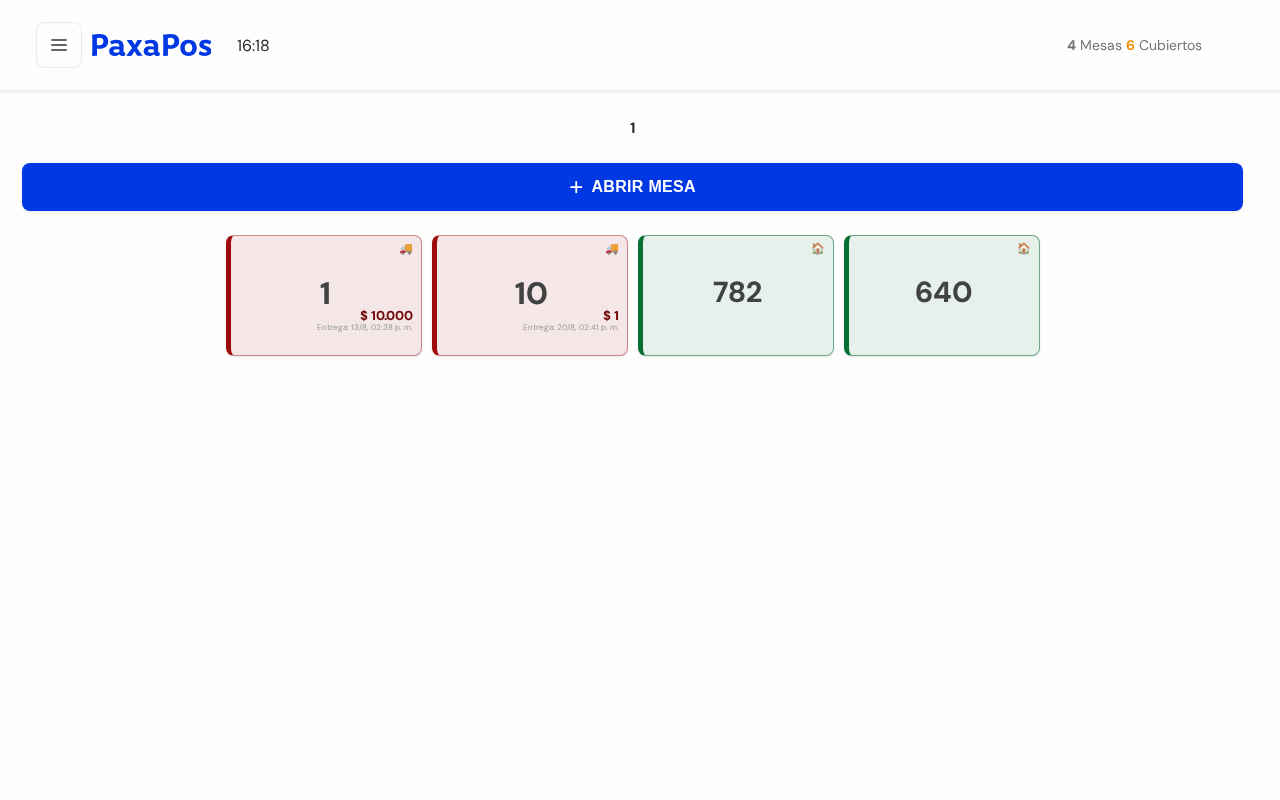
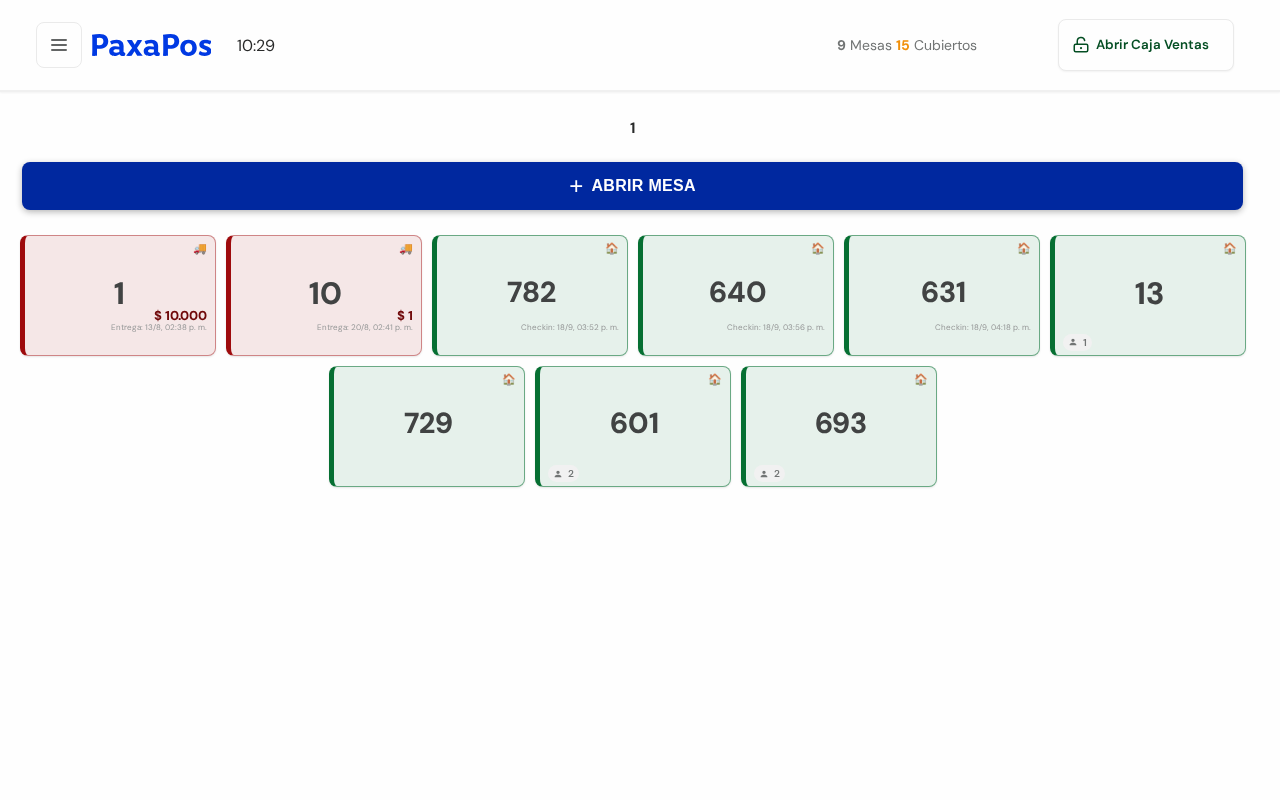
docs(manual): capturas por botón en 21 Cómo Usar el Salón de Ventas (Adición)
Capturas generadas contra dev2 (tenant prueba) con la receta 21: apertura
de caja, abrir mesa, catálogo (categoría + producto), comandar, opciones,
cerrar, remito, reabrir y cobro en efectivo (sin confirmar el cobro).
Se recapturan 01, 20, 23 y 25 porque la pantalla cambió.

Refs #144

diff --git a/src/routes/user-guide/Manual-Usuario/20-Ventas/21-Salon-de-Ventas.md b/src/routes/user-guide/Manual-Usuario/20-Ventas/21-Salon-de-Ventas.md
@@ -95,11 +95,11 @@ Para que el mozo entre al sistema con un código numérico, creale un **usuario 
 
 <div id="paso-1-entra-al-salon-de-ventas"></div>
 
-<!-- FOTO: 21-00a-menu-grupo-ventas — Grupo Ventas del menú lateral · recorte · #globalSidebar .sidebar-module[data-module="ventas"] .sidebar-module-header -->
+![Grupo Ventas del menú lateral](images/manual/20-ventas/21-00a-menu-grupo-ventas.png)
 
 1. En el menú de la izquierda, tocá **Ventas**. Se despliegan sus opciones.
 
-<!-- FOTO: 21-00b-menu-opcion-adicionar — Opción Salón de Ventas dentro del grupo Ventas · recorte · #globalSidebar a[href*="aditions/aditions/adicionar"] (con el grupo Ventas desplegado) -->
+![Opción Salón de Ventas dentro del grupo Ventas](images/manual/20-ventas/21-00b-menu-opcion-adicionar.png)
 
 2. Tocá **Salón de Ventas**.
 3. Vas a ver las mesas abiertas, agrupadas por mozo.
@@ -119,26 +119,26 @@ En esta pantalla vas a ver:
 
 Para cobrar en efectivo necesitás la caja abierta. Si está cerrada, arriba aparece el botón **Abrir Caja**.
 
-<!-- FOTO: 21-205-donde-esta-boton-abrir-caja — Encabezado del Salón de Ventas con el botón Abrir Caja marcado en rojo · pantalla con recuadro rojo · #btn-cashregister (visible solo con la caja cerrada) -->
+![Encabezado del Salón de Ventas con el botón Abrir Caja marcado en rojo](images/manual/20-ventas/21-205-donde-esta-boton-abrir-caja.png)
 
-<!-- FOTO: 21-206-boton-abrir-caja — Botón Abrir Caja · recorte · #btn-cashregister -->
+![Botón Abrir Caja](images/manual/20-ventas/21-206-boton-abrir-caja.png)
 
 1. Tocá **Abrir Caja**. Está arriba, en el encabezado del salón.
 2. Si tenés más de una caja, elegí cuál abrir y tocá **Continuar**.
 3. Se abre la ventana **Iniciar Caja**.
 
-<!-- FOTO: 21-207-dialogo-iniciar-caja — Ventana Iniciar Caja con la lista de billetes · pantalla completa · ventana SweetAlert "Iniciar Caja" (.swal-billete-input) con 2 billetes cargados -->
+![Ventana Iniciar Caja con la lista de billetes](images/manual/20-ventas/21-207-dialogo-iniciar-caja.png)
 
-<!-- FOTO: 21-208-campo-billetes — Casillero para la cantidad de billetes · recorte · fila del primer .swal-billete-input -->
+![Casillero para la cantidad de billetes](images/manual/20-ventas/21-208-campo-billetes.png)
 
 4. Al lado de cada billete, escribí cuántos hay en la caja. Por ejemplo: *2* billetes de *$ 1.000*.
 5. Arriba se suma solo el **Total en Caja**.
 
-<!-- FOTO: 21-209-boton-confirmar-abrir-caja — Botón verde Abrir Caja para confirmar · recorte · .swal2-confirm "Abrir Caja" (dueño: se puede confirmar) -->
+![Botón verde Abrir Caja para confirmar](images/manual/20-ventas/21-209-boton-confirmar-abrir-caja.png)
 
 6. Tocá el botón verde **Abrir Caja**.
 
-<!-- FOTO: 21-210-caja-abierta — Mensaje Caja Abierta con el importe inicial · recorte · .swal2-popup con título "¡Caja Abierta!" -->
+![Mensaje Caja Abierta con el importe inicial](images/manual/20-ventas/21-210-caja-abierta.png)
 
 7. Vas a ver el mensaje **¡Caja Abierta!**. Ahora en el encabezado está el botón para cerrarla.
 
@@ -150,7 +150,7 @@ Para cobrar en efectivo necesitás la caja abierta. Si está cerrada, arriba apa
 
 <div id="paso-3-abri-una-mesa"></div>
 
-<!-- FOTO: 21-42-donde-esta-boton-abrir — Listado de mesas con el botón Abrir Mesa marcado en rojo · pantalla con recuadro rojo · .btn-nueva-mesa -->
+![Listado de mesas con el botón Abrir Mesa marcado en rojo](images/manual/20-ventas/21-42-donde-esta-boton-abrir.png)
 
 1. Tocá **"+ Abrir Mesa"**.
 
@@ -162,9 +162,9 @@ Para cobrar en efectivo necesitás la caja abierta. Si está cerrada, arriba apa
 
 ![Diálogo para abrir una mesa nueva con cantidad de cubiertos](images/manual/20-ventas/17-salon-dialogo-abrir-mesa.png)
 
-<!-- FOTO: 21-195-campo-descripcion-mesa — Casillero Descripción de la mesa · recorte · #swal-mesa-numero -->
+![Casillero Descripción de la mesa](images/manual/20-ventas/21-195-campo-descripcion-mesa.png)
 
-<!-- FOTO: 21-196-campo-cubiertos — Casillero Cantidad de cubiertos · recorte · #swal-mesa-cubiertos -->
+![Casillero Cantidad de cubiertos](images/manual/20-ventas/21-196-campo-cubiertos.png)
 
 ![Botón Guardar de la ventana Abrir Mesa](images/manual/20-ventas/17b-salon-boton-guardar-mesa.png)
 
@@ -180,7 +180,7 @@ Para cobrar en efectivo necesitás la caja abierta. Si está cerrada, arriba apa
 
 <div id="paso-4-carga-los-productos-y-comanda"></div>
 
-<!-- FOTO: 21-148-donde-esta-boton-nueva-comanda — Mesa abierta con el botón Nueva Comanda marcado en rojo · pantalla con recuadro rojo · #btn-add-products-main -->
+![Mesa abierta con el botón Nueva Comanda marcado en rojo](images/manual/20-ventas/21-148-donde-esta-boton-nueva-comanda.png)
 
 1. Dentro de la mesa, tocá **"+ Nueva Comanda"**.
 
@@ -190,15 +190,21 @@ Para cobrar en efectivo necesitás la caja abierta. Si está cerrada, arriba apa
 
 ![Catálogo de productos del menú activo](images/manual/20-ventas/20-salon-catalogo-productos.png)
 
-<!-- FOTO: 21-187-campo-buscar-por-nombre-abrev-o-codigo — Casillero para buscar productos por nombre · recorte · #buscadorProductos -->
+![Casillero para buscar productos por nombre](images/manual/20-ventas/21-187-campo-buscar-por-nombre-abrev-o-codigo.png)
 
-<!-- FOTO: 21-197-boton-producto — Botón de un producto del catálogo · recorte · primer .ul-productos:visible a -->
+Si no buscás, tocá primero la **categoría** (por ejemplo, **Pizzas**). Vas a ver sus productos.
 
-<!-- FOTO: 21-salon-producto-agregado — Producto agregado a la lista de productos seleccionados · pantalla completa · catálogo con 1 producto en Productos Seleccionados -->
+![Botón azul de la categoría Pizzas en el catálogo](images/manual/20-ventas/21-211-boton-categoria.png)
+
+Tocá el producto. Se suma a la comanda de la izquierda.
+
+![Botón de un producto del catálogo](images/manual/20-ventas/21-197-boton-producto.png)
+
+![Producto agregado a la lista de productos seleccionados](images/manual/20-ventas/21-salon-producto-agregado.png)
 
 3. Si el producto tiene **variantes** (por ejemplo, gustos de helado), elegí las opciones que te pide.
 <!-- FOTO: 21-06-elegir-variantes -->
-<!-- FOTO: 21-198-donde-esta-boton-comandar — Catálogo con el botón Comandar marcado en rojo · pantalla con recuadro rojo · .comanda-add-guardar-primary -->
+![Catálogo con el botón Comandar marcado en rojo](images/manual/20-ventas/21-198-donde-esta-boton-comandar.png)
 
 4. Cuando terminaste, tocá **Comandar**. El pedido sale impreso en cocina o barra.
 
@@ -219,9 +225,9 @@ Para cobrar en efectivo necesitás la caja abierta. Si está cerrada, arriba apa
 Asignar un cliente es **opcional**, pero es **obligatorio para hacer una Factura A**. Lo podés hacer **en cualquier momento**, mientras la mesa esté abierta o después de cerrarla.
 
 1. Dentro de la mesa, tocá **⚙ Opciones** (arriba a la derecha).
-<!-- FOTO: 21-115-donde-esta-boton-opciones — Mesa con el botón Opciones marcado en rojo · pantalla con recuadro rojo · #btn-mas-opciones -->
+![Mesa con el botón Opciones marcado en rojo](images/manual/20-ventas/21-115-donde-esta-boton-opciones.png)
 
-<!-- FOTO: 21-116-boton-opciones — Botón Opciones · recorte · #btn-mas-opciones -->
+![Botón Opciones](images/manual/20-ventas/21-116-boton-opciones.png)
 2. Tocá **Cliente**.
 <!-- FOTO: 21-08-opcion-cliente -->
 3. Se abre la ventana **Seleccionar Cliente**. Escribí el nombre, teléfono o email en el buscador.
@@ -256,7 +262,7 @@ Asignar un cliente es **opcional**, pero es **obligatorio para hacer una Factura
 
 Cuando el cliente pide la cuenta:
 
-<!-- FOTO: 21-119-donde-esta-boton-cerrar — Mesa con el botón Cerrar marcado en rojo · pantalla con recuadro rojo · #btn-cerrar-mesa -->
+![Mesa con el botón Cerrar marcado en rojo](images/manual/20-ventas/21-119-donde-esta-boton-cerrar.png)
 
 1. Tocá **🔒 Cerrar**, en la barra de la izquierda. La mesa se cierra y ya no se le pueden cargar productos.
 
@@ -266,7 +272,7 @@ Cuando el cliente pide la cuenta:
 
 ![Vista de Remito con el detalle de la mesa cerrada](images/manual/20-ventas/25-salon-remito.png)
 
-<!-- FOTO: 21-154-donde-esta-boton-imprimir — Remito con el botón Imprimir marcado en rojo · pantalla con recuadro rojo · #btn-print-remito (SOLO foto, no tocar) -->
+![Remito con el botón Imprimir marcado en rojo](images/manual/20-ventas/21-154-donde-esta-boton-imprimir.png)
 
 3. Si el remito **no salió impreso solo**, tocá **Imprimir** en la sección **🖨 Remito**.
 
@@ -275,9 +281,9 @@ Cuando el cliente pide la cuenta:
 > 💡 El **remito** es la cuenta para el cliente: dice **"Documento no válido como factura"**. No es una factura.
 > Desde la misma sección también podés **Descargar Img** o **Descargar PDF A4** para mandarlo por WhatsApp o mail.
 
-<!-- FOTO: 21-121-donde-esta-boton-reabrir — Mesa cerrada con el botón Reabrir marcado en rojo · pantalla con recuadro rojo · #mesa-reabrir (mesa cerrada) -->
+![Mesa cerrada con el botón Reabrir marcado en rojo](images/manual/20-ventas/21-121-donde-esta-boton-reabrir.png)
 
-<!-- FOTO: 21-122-boton-reabrir — Botón Reabrir · recorte · #mesa-reabrir -->
+![Botón Reabrir](images/manual/20-ventas/21-122-boton-reabrir.png)
 
 > 🔓 ¿Cerraste por error? Tocá **🔓 Reabrir** y la mesa vuelve a estar abierta.
 
@@ -288,24 +294,24 @@ Cuando el cliente pide la cuenta:
 <div id="paso-7-cobra-la-mesa"></div>
 
 1. En la vista **Remito**, tocá **💰 Cobrar**.
-<!-- FOTO: 21-150-donde-esta-boton-cobrar — Remito con el botón Cobrar marcado en rojo · pantalla con recuadro rojo · #btn-start-payment-main -->
+![Remito con el botón Cobrar marcado en rojo](images/manual/20-ventas/21-150-donde-esta-boton-cobrar.png)
 
-<!-- FOTO: 27-salon-boton-cobrar — Botón Cobrar · recorte · #btn-start-payment-main -->
+![Botón Cobrar](images/manual/20-ventas/27-salon-boton-cobrar.png)
 2. Se abre la pantalla de cobro con el **Total a cobrar**. En **¿Cómo paga?** elegí el medio de pago (efectivo, tarjeta, Mercado Pago, etc.). Si no ves el que buscás, tocá **Más métodos de pago...**
-<!-- FOTO: 28-salon-pantalla-cobro — Pantalla de cobro con el total y los medios de pago · pantalla completa · .checkout-container recién abierto -->
+![Pantalla de cobro con el total y los medios de pago](images/manual/20-ventas/28-salon-pantalla-cobro.png)
 
-<!-- FOTO: 21-200-boton-metodo-efectivo — Botón del medio de pago Efectivo · recorte · .checkout-method-btn[data-method="efectivo"] -->
+![Botón del medio de pago Efectivo](images/manual/20-ventas/21-200-boton-metodo-efectivo.png)
 3. **Si paga en efectivo:** en **💵 ¿Con cuánto paga el cliente?** escribí el billete que te dio. El sistema te muestra el **Vuelto**. Si paga justo, tocá **✓ Monto exacto**.
-<!-- FOTO: 21-201-campo-con-cuanto-paga — Casillero Con cuánto paga el cliente · recorte · #checkout-efectivo-vuelto con monto escrito en #checkout-efectivo-monto -->
+![Casillero Con cuánto paga el cliente](images/manual/20-ventas/21-201-campo-con-cuanto-paga.png)
 
-<!-- FOTO: 21-202-pantalla-cobro-efectivo — Pantalla de cobro con Efectivo elegido y el vuelto calculado · pantalla completa · checkout con Efectivo elegido y vuelto calculado -->
-<!-- FOTO: 21-203-boton-confirmar-cobro — Botón verde para confirmar el cobro · recorte · #checkout-pay-btn (SOLO foto, cobra de verdad) -->
+![Pantalla de cobro con Efectivo elegido y el vuelto calculado](images/manual/20-ventas/21-202-pantalla-cobro-efectivo.png)
+![Botón verde para confirmar el cobro](images/manual/20-ventas/21-203-boton-confirmar-cobro.png)
 
 4. Tocá el botón verde de abajo para confirmar el pago.
 
 > ⚠ **Atención:** El botón verde cobra de verdad. Revisá la mesa y el total antes de tocarlo. Si te equivocaste de mesa, tocá **← Volver a la mesa** y no se cobra nada.
 
-<!-- FOTO: 21-204-boton-volver-a-la-mesa — Botón Volver a la mesa · recorte · #checkout-back-btn -->
+![Botón Volver a la mesa](images/manual/20-ventas/21-204-boton-volver-a-la-mesa.png)
 
 #### Si paga con varios medios
 
@@ -372,7 +378,7 @@ Si el cliente te pide factura, hacela desde la sección **🧾 Factura Fiscal** 
 
 El botón **⚙ Opciones** (arriba a la derecha de la mesa) tiene más acciones. Algunas solo funcionan con la mesa **abierta**:
 
-<!-- FOTO: 21-199-dialogo-opciones — Ventana Opciones de la mesa · recorte · .swal-mas-opciones-popup (cerrar con .swal2-cancel) -->
+![Ventana Opciones de la mesa](images/manual/20-ventas/21-199-dialogo-opciones.png)
 
 - **👤 Mozo:** cambiá el mozo de la mesa. Se abre una ventana para **Seleccionar** el nuevo mozo.
 - **✏ Número:** cambiá la descripción o número de la mesa.
